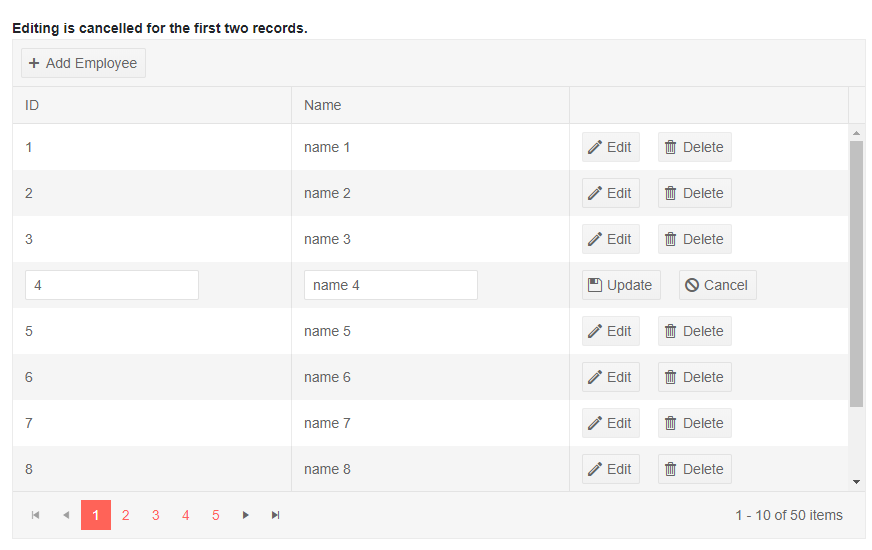
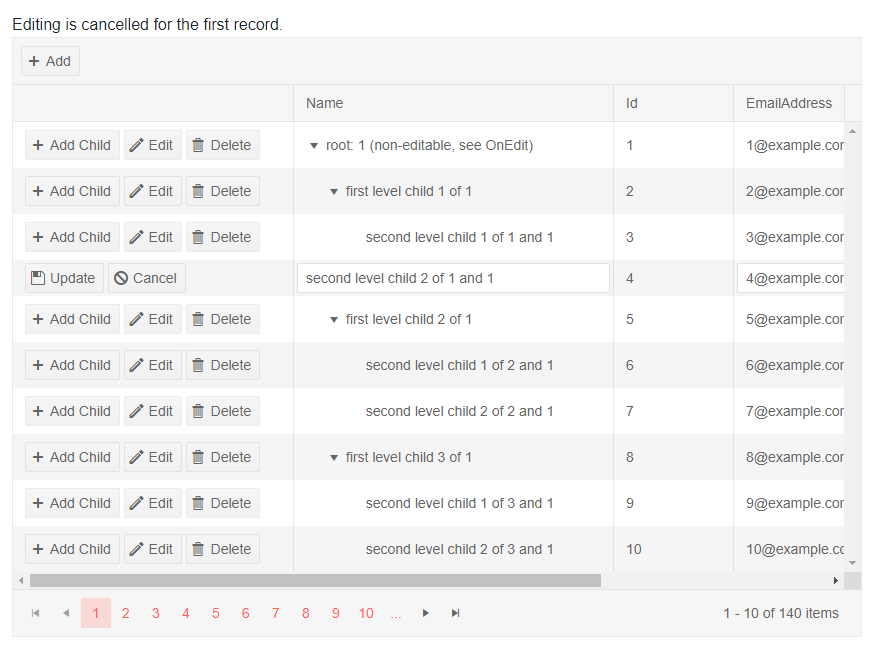
docs(treelist): inline editing

diff --git a/components/treelist/editing/inline.md b/components/treelist/editing/inline.md
@@ -1,138 +1,261 @@
 ---
 title: Inline Editing
-page_title: Grid - Inline Editing
-description: Inline (row) editing of data in Grid for Blazor.
+page_title: TreeList - Inline Editing
+description: Inline (row) editing of data in treelist for Blazor.
 slug: treelist-editing-inline
-tags: telerik,blazor,grid,inline,editing
+tags: telerik,blazor,treelist,inline,editing
 published: True
 position: 1
 ---
 
-# Grid Inline Editing
+# TreeList Inline Editing
 
-Inline editing lets the user click an [Edit command button]({%slug components/grid/columns/command%}) on the row, and all its editable columns open up for changes. They can then click an `Save` command button to submit the changes to the data access layer. This fires the `OnUpdate` event of the grid where your code receives the updated model so you can work with the data (for example, to call the appropriate method of your service).
+Inline editing lets the user click an [Edit command button]({%slug treelist-columns-command%}) on the row, and all its editable columns open up for changes. They can then click a `Save` command button to submit the changes to the data access layer. This fires the `OnUpdate` event of the treelist where your code receives the updated model so you can work with the data (for example, to call the appropriate method of your service).
 
-In a similar fashion, the `Cancel` and `Delete` command buttons fire events on the grid to let you handle the data source operations.
+In a similar fashion, the `Cancel` and `Delete` command buttons fire events on the treelist to let you handle the data source operations.
 
 You can also cancel the events by setting the `IsCancelled` property of the event arguments to `true`. This lets you prevent the user from editing certain records, inserting or deleting items, based on your application logic.
 
-To enable Inline editing in the grid, set its `EditMode` property to `Telerik.Blazor.GridEditMode.Inline`, then handle the CRUD events as shown in the example below.
+To enable Inline editing in the treelist, set its `EditMode` property to `Telerik.Blazor.TreeListEditMode.Inline`, then handle the CRUD events as shown in the example below.
 
 
->caption The Command buttons and the grid events let you handle data operations in Inline edit mode
+>caption The Command buttons and the treelist events let you handle data operations in Inline edit mode
 
 ````CSHTML
-Use the command buttons to control the CUD operations. <br />
-<strong>Editing is cancelled for the first two records</strong>. 
+Editing is cancelled for the first record. <br />
 
-<TelerikGrid Data=@MyData EditMode="@GridEditMode.Inline" Pageable="true" Height="500px"
-        OnUpdate="@UpdateHandler" OnEdit="@EditHandler" OnDelete="@DeleteHandler" OnCreate="@CreateHandler" OnCancel="@CancelHandler">
-    <GridToolBar>
-        <GridCommandButton Command="Add" Icon="add">Add Employee</GridCommandButton>
-    </GridToolBar>
-    <GridColumns>
-        <GridColumn Field=@nameof(SampleData.ID) Title="ID" Editable="false" />
-        <GridColumn Field=@nameof(SampleData.Name) Title="Name" />
-        <GridCommandColumn>
-            <GridCommandButton Command="Save" Icon="save" ShowInEdit="true">Update</GridCommandButton>
-            <GridCommandButton Command="Edit" Icon="edit">Edit</GridCommandButton>
-            <GridCommandButton Command="Delete" Icon="delete">Delete</GridCommandButton>
-            <GridCommandButton Command="Cancel" Icon="cancel" ShowInEdit="true">Cancel</GridCommandButton>
-        </GridCommandColumn>
-    </GridColumns>
-</TelerikGrid>
+<TelerikTreeList Data="@Data"
+                 EditMode="@TreeListEditMode.Inline"
+                 OnUpdate="@UpdateItem"
+                 OnDelete="@DeleteItem"
+                 OnCreate="@CreateItem"
+                 OnEdit="@OnEditHandler"
+                 OnCancel="@OnCancelHandler"
+                 Pageable="true" ItemsField="@(nameof(Employee.DirectReports))"
+                 Width="850px">
+    <TreeListToolBar>
+        <TreeListCommandButton Command="Add" Icon="add">Add</TreeListCommandButton>
+    </TreeListToolBar>
+    <TreeListColumns>
+        <TreeListCommandColumn Width="280px">
+            <TreeListCommandButton Command="Add" Icon="@IconName.Plus">Add Child</TreeListCommandButton>
+            <TreeListCommandButton Command="Edit" Icon="@IconName.Edit">Edit</TreeListCommandButton>
+            <TreeListCommandButton Command="Delete" Icon="@IconName.Delete">Delete</TreeListCommandButton>
+            <TreeListCommandButton Command="Save" Icon="@IconName.Save" ShowInEdit="true">Update</TreeListCommandButton>
+            <TreeListCommandButton Command="Cancel" Icon="@IconName.Cancel" ShowInEdit="true">Cancel</TreeListCommandButton>
+        </TreeListCommandColumn>
+
+        <TreeListColumn Field="Name" Expandable="true" Width="320px" />
+        <TreeListColumn Field="Id" Editable="false" Width="120px" />
+        <TreeListColumn Field="EmailAddress" Width="220px" />
+        <TreeListColumn Field="HireDate" Width="220px" />
+    </TreeListColumns>
+</TelerikTreeList>
 
 @code {
-    void EditHandler(GridCommandEventArgs args)
+    public List<Employee> Data { get; set; }
+
+    // used in this example for data generation and retrieval for CUD operations on the current view-model data
+    public int LastId { get; set; } = 1;
+
+    // Sample CUD operations for the local data
+    async Task UpdateItem(TreeListCommandEventArgs args)
     {
-        SampleData item = (SampleData)args.Item;
-
-        // prevent opening for edit based on condition
-        if (item.ID < 3)
-        {
-            args.IsCancelled = true;// the general approach for cancelling an event
-        }
-
-        Console.WriteLine("Edit event is fired.");
-    }
-
-    async Task UpdateHandler(GridCommandEventArgs args)
-    {
-        SampleData item = (SampleData)args.Item;
+        var item = args.Item as Employee;
 
         // perform actual data source operations here through your service
 
-        // if the grid Data is not tied to the service, you may need to update the local view data too
-        var index = MyData.FindIndex(i => i.ID == item.ID);
-        if (index != -1)
+        // if the treelist Data is not tied to the service, you may need to update the local view data too
+        var foundItem = FindItemRecursive(Data, item.Id);
+        if (foundItem != null)
         {
-            MyData[index] = item;
+            foundItem.Name = item.Name;
+            foundItem.HireDate = item.HireDate;
+            foundItem.EmailAddress = item.EmailAddress;
         }
-
-        Console.WriteLine("Update event is fired.");
     }
 
-    async Task DeleteHandler(GridCommandEventArgs args)
+    async Task CreateItem(TreeListCommandEventArgs args)
     {
-        SampleData item = (SampleData)args.Item;
+        var argsItem = args.Item as Employee;
 
-        // perform actual data source operation here through your service
+        // perform actual data source operations here through your service
 
-        // if the grid Data is not tied to the service, you may need to update the local view data too
-        MyData.Remove(item);
+        // if the treelist Data is not tied to the service, you may need to update the local view data too
+        argsItem.Id = LastId++;
 
-        Console.WriteLine("Delete event is fired.");
-    }
-
-    async Task CreateHandler(GridCommandEventArgs args)
-    {
-        SampleData item = (SampleData)args.Item;
-
-        // perform actual data source operation here through your service
-
-        // if the grid Data is not tied to the service, you may need to update the local view data too
-        item.ID = MyData.Count + 1;
-        MyData.Insert(0, item);
-
-        Console.WriteLine("Create event is fired.");
-    }
-
-    async Task CancelHandler(GridCommandEventArgs args)
-    {
-        SampleData item = (SampleData)args.Item;
-
-        // if necessary, perform actual data source operation here through your service
-
-        Console.WriteLine("Cancel event is fired.");
-    }
-
-
-    // in a real case, keep the models in dedicated locations, this is just an easy to copy and see example
-    public class SampleData
-    {
-        public int ID { get; set; }
-        public string Name { get; set; }
-    }
-
-    public List<SampleData> MyData { get; set; }
-
-    protected override void OnInitialized()
-    {
-        MyData = new List<SampleData>();
-
-        for (int i = 0; i < 50; i++)
+        if (args.ParentItem != null)
         {
-            MyData.Add(new SampleData()
+            var parent = (Employee)args.ParentItem;
+
+            parent.HasChildren = true;
+            if (parent.DirectReports == null)
             {
-                ID = i,
-                Name = "Name " + i.ToString()
-            });
+                parent.DirectReports = new List<Employee>();
+            }
+
+            parent.DirectReports.Insert(0, argsItem);
         }
+        else
+        {
+            Data.Insert(0, argsItem);
+        }
+    }
+
+    async Task DeleteItem(TreeListCommandEventArgs args)
+    {
+        var item = args.Item as Employee;
+
+        // perform actual data source operations here through your service
+
+        // if the treelist Data is not tied to the service, you may need to update the local view data too
+        RemoveChildRecursive(Data, item);
+    }
+
+    // sample helper methods for handling the view-model data hierarchy
+
+    private Employee FindItemRecursive(List<Employee> items, int id)
+    {
+        foreach (var item in items)
+        {
+            if (item.Id.Equals(id))
+            {
+                return item;
+            }
+
+            if (item.DirectReports?.Count > 0)
+            {
+                var childItem = FindItemRecursive(item.DirectReports, id);
+
+                if (childItem != null)
+                {
+                    return childItem;
+                }
+            }
+        }
+
+        return null;
+    }
+
+    private void RemoveChildRecursive(List<Employee> items, Employee item)
+    {
+        for (int i = 0; i < items.Count(); i++)
+        {
+            if (item.Equals(items[i]))
+            {
+                items.Remove(item);
+
+                return;
+            }
+            else if (items[i].DirectReports?.Count > 0)
+            {
+                RemoveChildRecursive(items[i].DirectReports, item);
+
+                if (items[i].DirectReports.Count == 0)
+                {
+                    items[i].HasChildren = false;
+                }
+            }
+        }
+    }
+
+    // OnEdit handler
+
+    async Task OnEditHandler(TreeListCommandEventArgs args)
+    {
+        Employee empl = args.Item as Employee;
+        if (empl.Id == 1)
+        {
+            // prevent opening for edit based on condition
+            args.IsCancelled = true;
+            Console.WriteLine("You cannot edit this item");
+        }
+    }
+
+    // OnCancel handler
+
+    async Task OnCancelHandler(TreeListCommandEventArgs args)
+    {
+        Employee empl = args.Item as Employee;
+        // if necessary, perform actual data source operation here through your service
+    }
+
+    // sample model
+
+    public class Employee
+    {
+        public int Id { get; set; }
+        public string Name { get; set; }
+        public string EmailAddress { get; set; }
+        public DateTime HireDate { get; set; }
+
+        public List<Employee> DirectReports { get; set; }
+        public bool HasChildren { get; set; }
+    }
+
+    // data generation
+
+    protected override async Task OnInitializedAsync()
+    {
+        Data = await GetTreeListData();
+    }
+
+    async Task<List<Employee>> GetTreeListData()
+    {
+        List<Employee> data = new List<Employee>();
+
+        for (int i = 1; i < 15; i++)
+        {
+            Employee root = new Employee
+            {
+                Id = LastId,
+                Name = $"root: {i}",
+                EmailAddress = $"{i}@example.com",
+                HireDate = DateTime.Now.AddYears(-i),
+                DirectReports = new List<Employee>(),
+                HasChildren = true
+            };
+            data.Add(root);
+            LastId++;
+
+            for (int j = 1; j < 4; j++)
+            {
+                int currId = LastId;
+                Employee firstLevelChild = new Employee
+                {
+                    Id = currId,
+                    Name = $"first level child {j} of {i}",
+                    EmailAddress = $"{currId}@example.com",
+                    HireDate = DateTime.Now.AddDays(-currId),
+                    DirectReports = new List<Employee>(),
+                    HasChildren = true
+                };
+                root.DirectReports.Add(firstLevelChild);
+                LastId++;
+
+                for (int k = 1; k < 3; k++)
+                {
+                    int nestedId = LastId;
+                    firstLevelChild.DirectReports.Add(new Employee
+                    {
+                        Id = LastId,
+                        Name = $"second level child {k} of {j} and {i}",
+                        EmailAddress = $"{nestedId}@example.com",
+                        HireDate = DateTime.Now.AddMinutes(-nestedId)
+                    }); ;
+                    LastId++;
+                }
+            }
+        }
+
+        data[0].Name += " (non-editable, see OnEdit)";
+
+        return await Task.FromResult(data);
     }
 }
 ````
 
->caption The result from the code snippet above, after the Edit button was clicked on the fourth row
+>caption The result from the code snippet above, after the Edit button was clicked on the record with ID 4
 
 ![](images/inline-editing.png)
 
@@ -140,5 +263,5 @@ Use the command buttons to control the CUD operations. <br />
 
 ## See Also
 
-  * [Live Demo: Grid Inline Editing](https://demos.telerik.com/blazor-ui/grid/editing-inline)
+  * [Live Demo: TreeList Inline Editing](https://demos.telerik.com/blazor-ui/treelist/editing-inline)
    
